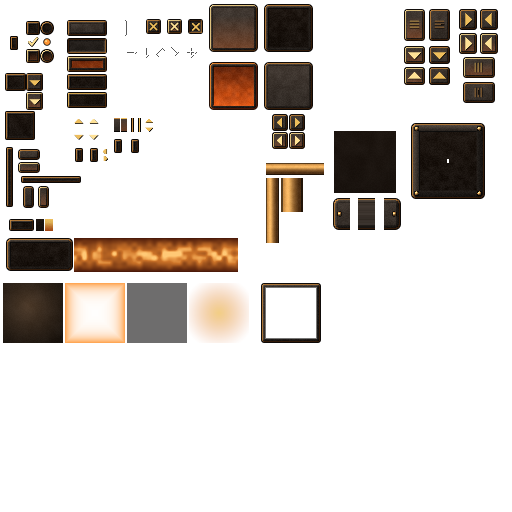
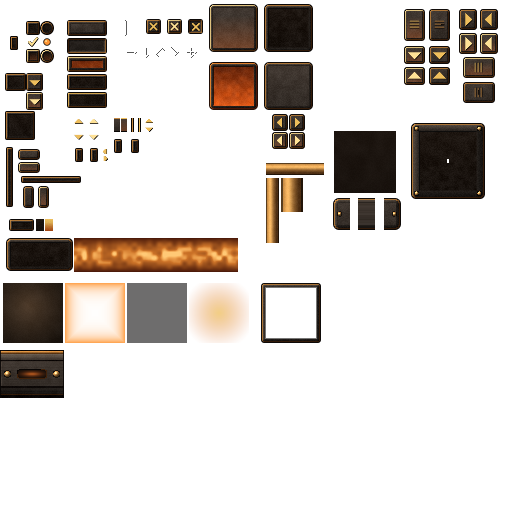
feat: forged bar, unified tab tiles with ember selection, warm event text colours, docs

Changed region(s): [[0.0, 0.6562, 0.125, 0.7812]]

diff --git a/tools/generate_forged_skin.py b/tools/generate_forged_skin.py
@@ -290,6 +290,68 @@ def opaque(rgb):
     return np.concatenate([np.clip(rgb, 0, 255), np.ones(rgb.shape[:2] + (1,), dtype=np.float32)], axis=2)
 
 
+def rivet(rgb, cx, cy, radius):
+    """A domed bronze rivet with a dark ring, lit from the top left."""
+    h, w = rgb.shape[:2]
+    px, py = grid(h, w)
+    dx, dy = px - cx, py - cy
+    dist = np.hypot(dx, dy)
+    z = np.sqrt(np.clip(1 - (dist / radius) ** 2, 0, 1))
+    nxv, nyv = dx / radius, dy / radius
+    diffuse = np.clip(-0.5 * nxv - 0.6 * nyv + 0.62 * z, 0, 1)
+    halfway = np.clip(-0.26 * nxv - 0.31 * nyv + 0.91 * z, 0, 1)
+    rv = col("rivet")[None, None, :] * (0.34 + 0.92 * diffuse)[..., None]
+    rv = rv + col("rivet_glint")[None, None, :] * (0.85 * halfway ** 18)[..., None]
+    rgb = np.where((dist < radius)[..., None], rv, rgb)
+    ring = ((dist >= radius) & (dist < radius + 0.9))[..., None]
+    return np.where(ring, rgb * 0.35, rgb)
+
+
+def forged_bar(w, h, seed):
+    """One segment of a forged iron bar: lit bronze edge, chamfers, an iron face with rivets and a glowing vent slot.
+
+    The rows are laid out for h = 48 and scale with h. The left and right edge are the joints between segments.
+    """
+    px, py = grid(h, w)
+    s = h / 48.0
+    yy = py
+
+    def band(a, b):
+        return ((yy >= a * s) & (yy < b * s))[..., None]
+
+    rgb = np.broadcast_to(col("iron")[None, None, :] * (1.16 - 0.42 * (yy / h))[..., None], (h, w, 3)).copy()
+    rgb = np.where(band(0, 1.5), col("contour"), rgb)
+    t = np.clip((yy - 1.5 * s) / (2.5 * s), 0, 1)[..., None]
+    rgb = np.where(band(1.5, 4), lerp(col("bronze_bright"), col("bronze_dark"), t), rgb)
+    t = np.clip((yy - 4 * s) / (6 * s), 0, 1)[..., None]
+    rgb = np.where(band(4, 10), lerp(col("iron_lit") * 1.12, col("iron"), t), rgb)
+    rgb = np.where(band(10, 11.5), col("contour") * 1.5, rgb)
+    rgb = np.where(band(36.5, 38), col("contour") * 1.5, rgb)
+    t = np.clip((yy - 38 * s) / (6 * s), 0, 1)[..., None]
+    rgb = np.where(band(38, 44), lerp(col("iron") * 0.62, col("iron") * 0.34, t), rgb)
+    rgb = np.where(band(44, 45.5), col("bronze_dark"), rgb)
+    rgb = np.where(band(45.5, 48), col("contour"), rgb)
+    streak = np.repeat(fine_noise(h, 1, seed + 2), w, axis=1)
+    rgb = rgb + (soft_noise(h, w, seed, 6) * 5.0 + fine_noise(h, w, seed + 1) * 3.0 + streak * 3.5)[..., None]
+    # vent slot in the middle of the face with a glow of embers
+    cx, cy, hw, hh, rad = w / 2.0, 24.0 * s, 15.0, 4.6 * s, 2.4
+    qx, qy = np.abs(px - cx) - (hw - rad), np.abs(py - cy) - (hh - rad)
+    depth = -(np.hypot(np.maximum(qx, 0), np.maximum(qy, 0)) + np.minimum(np.maximum(qx, qy), 0) - rad)
+    inside = depth > 0.9
+    glow = np.exp(-(((px - cx) / (hw * 0.75)) ** 2)) * np.clip(1.0 - np.abs(py - cy) / hh, 0, 1)
+    slot = col("inset")[None, None, :] * 0.55 + col("ember")[None, None, :] * (0.55 * glow)[..., None]         + col("ember_bright")[None, None, :] * (0.25 * glow ** 3)[..., None]
+    rgb = np.where(inside[..., None], slot, rgb)
+    rim = (depth > 0.0) & (depth <= 0.9)
+    lit = ((py > cy) | (px > cx + hw * 0.6))[..., None]
+    rgb = np.where(rim[..., None], np.where(lit, col("bronze_dark") * 1.3, col("contour")), rgb)
+    for rx in (7.5, w - 7.5):
+        rgb = rivet(rgb, rx, 24.0 * s, 3.1 * s)
+    rgb[:, 0, :] = lerp(rgb[:, 0, :], col("contour")[None, :], 0.85)
+    rgb[:, 1, :] = np.where(((yy[:, 1] > 11.5 * s) & (yy[:, 1] < 36.5 * s))[:, None], rgb[:, 1, :] * 1.28, rgb[:, 1, :])
+    rgb[:, -1, :] = lerp(rgb[:, -1, :], col("contour")[None, :], 0.85)
+    return opaque(np.clip(rgb, 0, 255))
+
+
 def paint(atlas):
     put = atlas.put
     # ---- Buttons (sheets of 40x16) ---------------------------------------------------------
@@ -473,6 +535,9 @@ def paint(atlas):
         base = base + (soft_noise(r[3], r[2], seed, 3) * 4 + fine_noise(r[3], r[2], seed + 1) * 3)[..., None]
         base = np.where((np.abs(angle) > 0.86)[..., None], base * 0.45, base)
         put(r, opaque(base), "pipe " + name)
+    # ---- Forged bar: the top strip and the message rail of the game screen (64 x 48, tiled sideways) --------------------
+    r = RECTS["ForgedBar"]
+    put(r, forged_bar(r[2], r[3], 161), "forged bar")
     # ---- Game button sheets (60x60) ----------------------------------------------------------------------------------
     r = RECTS["ButtonBackground"]
     px, py = grid(r[3], r[2])

diff --git a/docs/development/NAVIGATION-FORGED-STYLE.md b/docs/development/NAVIGATION-FORGED-STYLE.md
@@ -74,12 +74,37 @@ for health and success.
   bronze frame. The stone floor of the lower panel is tinted warm in `OD/TabContentPane`.
 - **Text and selection** in `gui/OD.looknfeel`: bone text, gold hover, amber selection, muted disabled;
   audio meter in emerald, gold and ember.
-- **Icons**: the runtime shading in `Gui.cpp` (`colourNavigationAtlas`, category icons) uses a gold and
-  bronze palette instead of blue, green and violet.
+- **Icons**: see "Forged emblems" below; the runtime shading of the old white glyphs is gone.
 - **Research and skills** (`GameMode.cpp`, `WindowSkillTree.layout`): ember, bronze and dark brown
   states, emerald and ember state icons.
 
 Not verified in the running game: nothing was built. Previews are mock-ups that cut the atlas by image
-name and place it on real screenshots. Not redrawn: the room, spell and trap artwork itself, creature
-portraits, the chat and event icons that are white glyphs tinted at run time, the map cursors, the
-selection brush, backgrounds and logos.
+name and place it on real screenshots. Not redrawn: creature portraits, the map cursors, the selection brush,
+backgrounds and logos.
+
+## Forged emblems, bar and tabs
+
+- **Icon atlas** `gui/ODIcons.png` (1024 px) and `gui/ODIcons.imageset` are generated by
+  `tools/generate_forged_icons.py` with the height-field renderer `tools/forged_emblem.py` (layers with a
+  material and a rounded height profile, bump lighting from the top left, specular, cavity shading, cast
+  shadows, 4x4 supersampling) and the motifs in `tools/forged_motifs.py` (materials are the one place for
+  colours). Room, trap, spell and worker slots are 128 px medallions: bronze ring with rivets around a dark
+  well that is tinted per category. Small symbols (64 px) stand without a frame; the population panel and
+  research state icons (cog, hourglass, hammer and anvil) get a mini medallion. Category tabs, panel,
+  objectives, message tabs and the menu return arrow are frameless emblems (the tall ones are drawn in the
+  32 x 52 unit shape they are shown in). All image names are unchanged. The terrain swatches are kept.
+  `Gui.cpp` no longer draws or tints these images at run time. Run `python tools/generate_forged_icons.py`;
+  `--sheet DIR [--only NAME ...] [--scale N]` writes a contact sheet only.
+- **Message tabs** show a bronze medal with a gold "i"; new messages glow ember, read ones are dark bronze.
+- **Tabs**: all four categories use the same warm stone (`NavigationColour`); the selected tab is the stone
+  with an ember glow and the gold frame, in `OD/TabButton`.
+- **Bar** `OpenDungeonsSkin/ForgedBar` (64 x 48, drawn by `generate_forged_skin.py`): iron bar with a lit bronze
+  edge, chamfers, rivets and a glowing vent slot per segment. It replaces the copper pipe of the top strip and
+  the message rail in `ModeGame.layout` (the editor keeps its thin pipe).
+- **Event text colours** are set in one place, the top of `source/network/ChatEventMessage.cpp`: bone for
+  information, amber for creatures, gold for skills and objectives, ember red for major events.
+- Check: `source/tests/check_forged_icons.py` (regions present, warm colours, no cold pixels, bar).
+
+Not verified in the running game: nothing was built. Previews are montages of atlas cuts on real screenshots.
+Listed but not changed: the hand cursor and the selection brush (loaded by the cursor code; a warm tint is
+possible through their image colours but was left alone because it touches input feedback).
